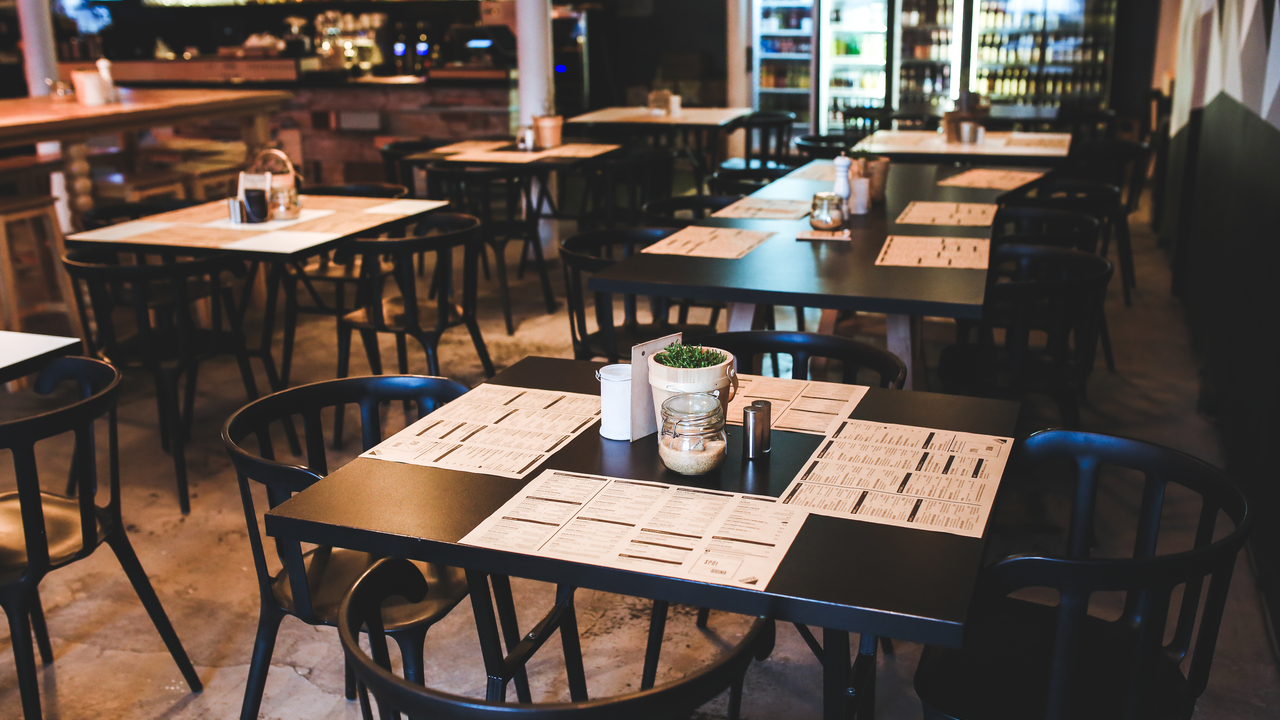
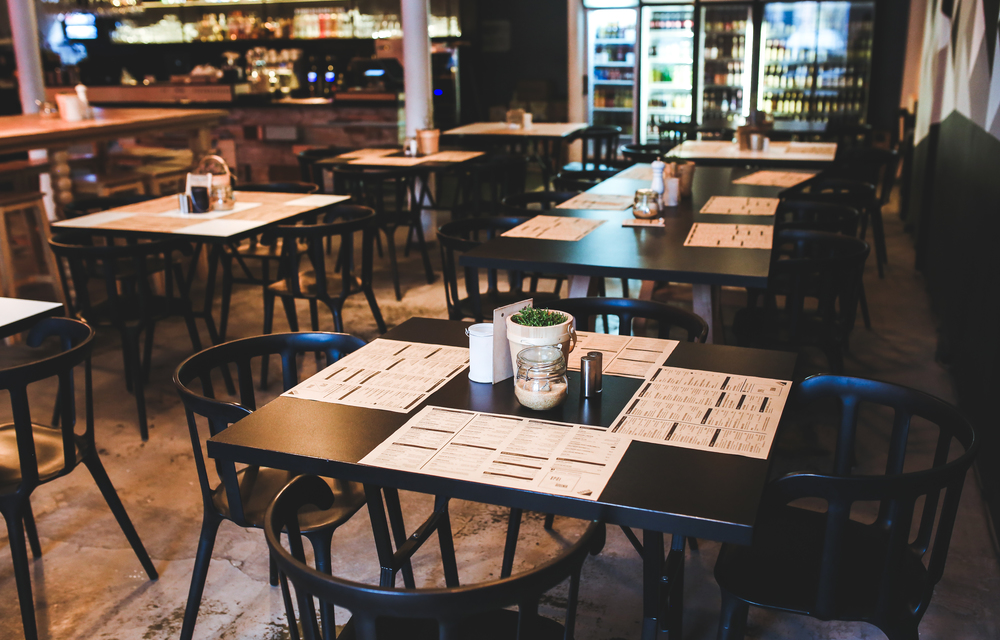
tweaks to images, index page, and restaurant card

diff --git a/app/models/restaurant.rb b/app/models/restaurant.rb
@@ -1,6 +1,6 @@
 class Restaurant < ApplicationRecord
-    has_attached_file :image, styles: { large: "1000x640#", medium: "286x180#" }, default_url: "/images/:style/missing.png",
-        convert_options: {:medium => "-gravity center -extent 286x180"}
+    has_attached_file :image, styles: { medium: "900x400#", thumb: "286x180#" }, default_url: "/images/:style/missing.png",
+        convert_options: {:medium => "-gravity center -extent 900x400", :thumb => "-gravity center -extent 286x180"}
     validates_attachment_content_type :image, content_type: /\Aimage\/.*\z/
 
     validates :name, presence: true
